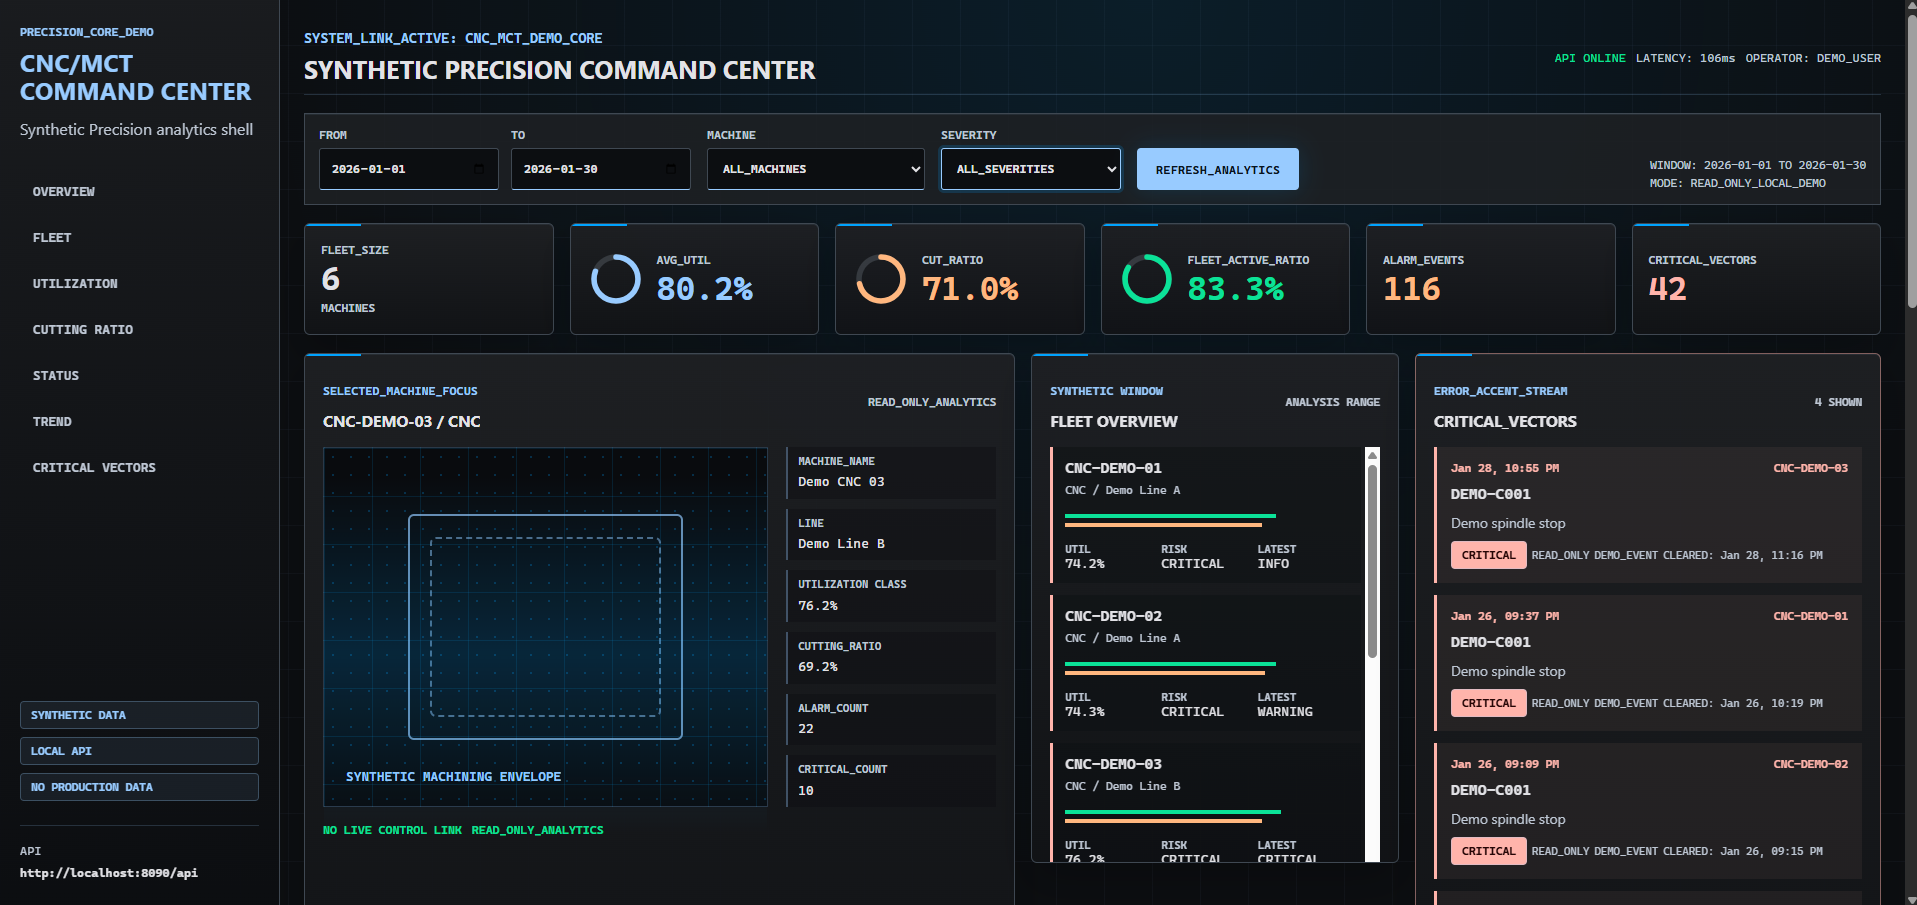
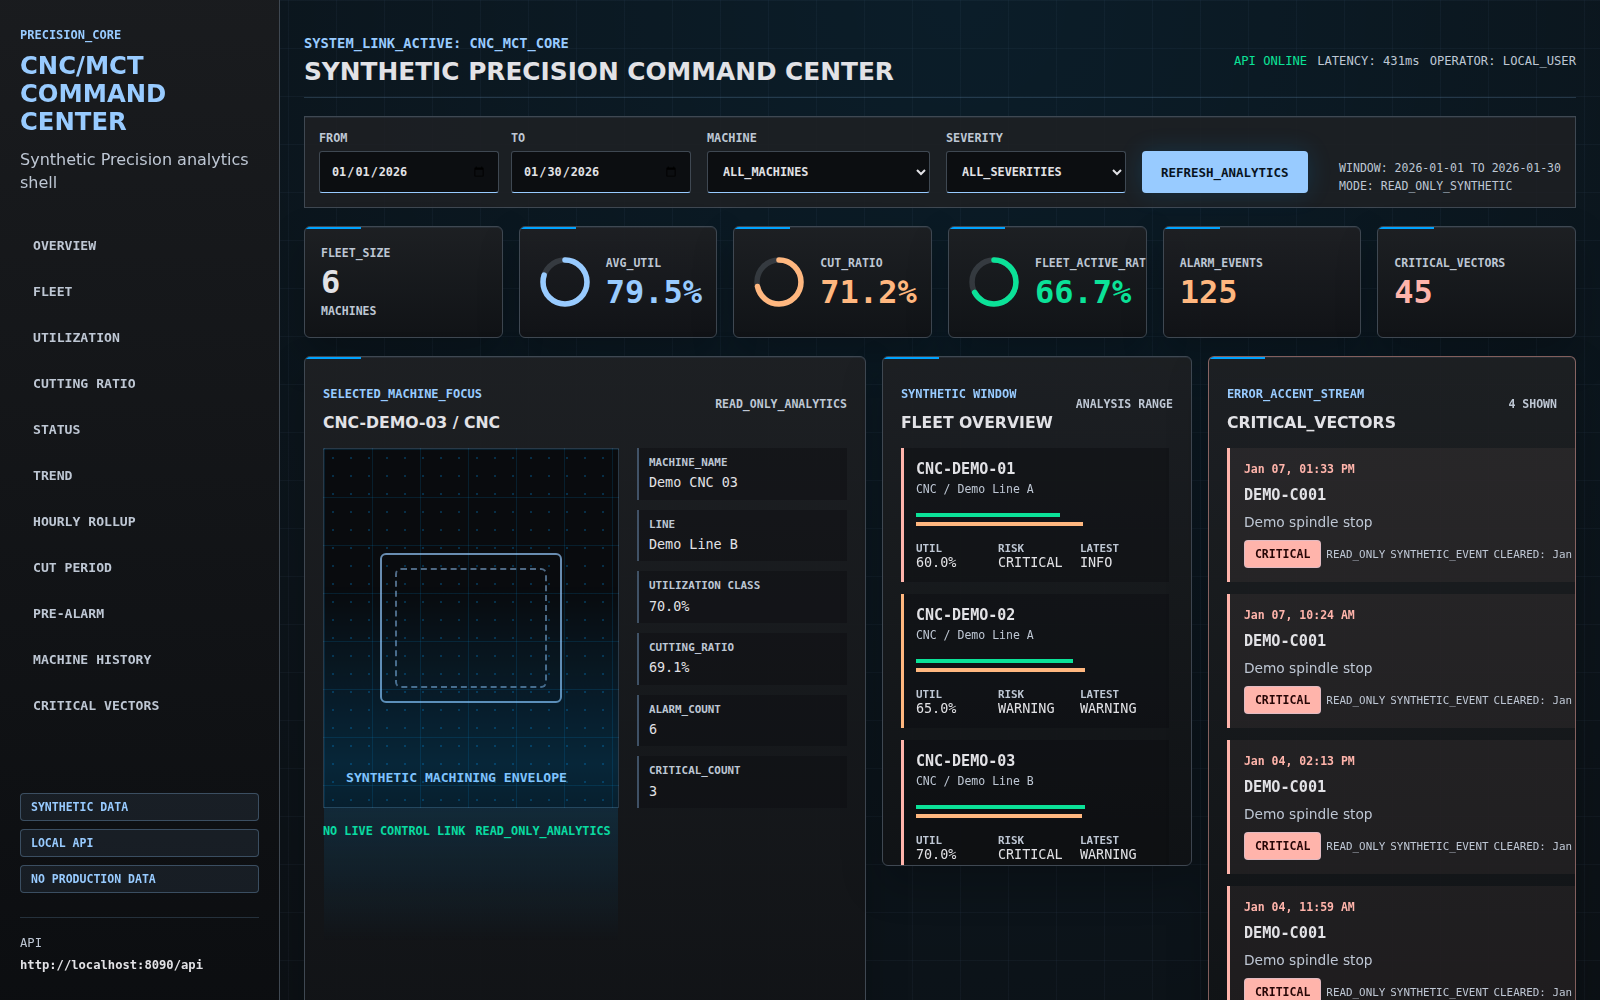
Refresh screenshots with the full panel set and neutralize UI chrome labels
- Regenerate all portfolio screenshots from the live frontend so they show the
  current dashboard, and add two new captures: the rollup engine panels
  (HOURLY_ROLLUP + CUT_PERIOD) and the PRE_ALARM + MACHINE_HISTORY section.
- Rename user-visible "DEMO" chrome strings to SYNTHETIC/LOCAL equivalents
  (OPERATOR, mode labels, event tags) while keeping the synthetic-data notices
  and DEMO-prefixed sample identifiers unchanged.

Claude-Session: https://claude.ai/code/session_01GDPkZfnzAzfRYoDuS1g4Pn

diff --git a/frontend/src/pages/DashboardPage.tsx b/frontend/src/pages/DashboardPage.tsx
@@ -286,22 +286,22 @@ export function DashboardPage() {
     `[ANALYSIS] CRITICAL_EVENTS count=${summary?.criticalAlarmCount ?? criticalAlarms.length}`,
     `[ANALYSIS] ALARM_EVENTS count=${summary?.alarmCount ?? alarms.length}`,
     `[FILTER] MACHINE=${filters.machineId || "ALL"} SEVERITY=${filters.severity || "ALL"}`,
-    `[STATE] READ_ONLY_DEMO_MODE`
+    `[STATE] READ_ONLY_SYNTHETIC_MODE`
   ];
 
   return (
     <div className="dashboard-page">
       <header className="top-header">
         <div>
-          <p className="system-link">SYSTEM_LINK_ACTIVE: CNC_MCT_DEMO_CORE</p>
+          <p className="system-link">SYSTEM_LINK_ACTIVE: CNC_MCT_CORE</p>
           <h2>Synthetic Precision Command Center</h2>
         </div>
-        <div className="header-telemetry" aria-label="demo runtime status">
+        <div className="header-telemetry" aria-label="runtime status">
           <span className={error ? "status-pill danger" : summary ? "status-pill online" : "status-pill"}>
             API {error ? "ERROR" : summary ? "ONLINE" : "PENDING"}
           </span>
           <span>LATENCY: {requestMs === null ? "--" : `${requestMs}ms`}</span>
-          <span>OPERATOR: DEMO_USER</span>
+          <span>OPERATOR: LOCAL_USER</span>
         </div>
       </header>
 
@@ -334,7 +334,7 @@ export function DashboardPage() {
         </button>
         <div className="filter-status">
           <span>WINDOW: {filters.from} TO {filters.to}</span>
-          <span>MODE: READ_ONLY_LOCAL_DEMO</span>
+          <span>MODE: READ_ONLY_SYNTHETIC</span>
         </div>
       </section>
 
@@ -557,7 +557,7 @@ function CriticalVectorsPanel({ alarms }: { alarms: AlarmHistory[] }) {
               <div className="critical-actions">
                 <span className="severity-badge critical">{alarm.severity}</span>
                 <span>READ_ONLY</span>
-                <span>DEMO_EVENT</span>
+                <span>SYNTHETIC_EVENT</span>
                 <span>CLEARED: {formatDateTime(alarm.clearedAt)}</span>
               </div>
             </article>

diff --git a/frontend/src/components/layout/AppShell.tsx b/frontend/src/components/layout/AppShell.tsx
@@ -25,7 +25,7 @@ export function AppShell({ children }: AppShellProps) {
       <aside className="sidebar">
         <div className="sidebar-main">
           <div>
-            <p className="eyebrow">PRECISION_CORE_DEMO</p>
+            <p className="eyebrow">PRECISION_CORE</p>
             <h1>CNC/MCT COMMAND CENTER</h1>
             <p className="subtitle">Synthetic Precision analytics shell</p>
           </div>

diff --git a/README.md b/README.md
@@ -87,6 +87,14 @@
 
 ![Analytics Panels](screenshots/dashboard-analytics-panels.png)
 
+### Rollup Engine — Hourly & Period Views
+
+![Rollup Panels](screenshots/dashboard-rollup-panels.png)
+
+### Pre-Alarm & Machine History
+
+![Pre-Alarm and Machine History](screenshots/dashboard-prealarm-history.png)
+
 ### Alarm History
 
 ![Alarm History](screenshots/dashboard-alarm-history.png)